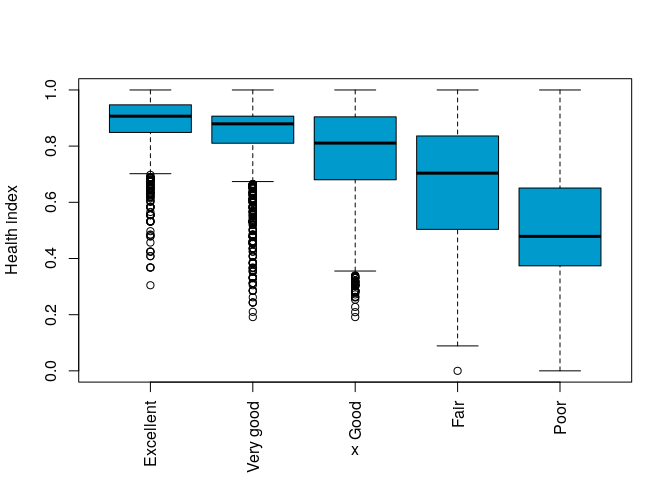
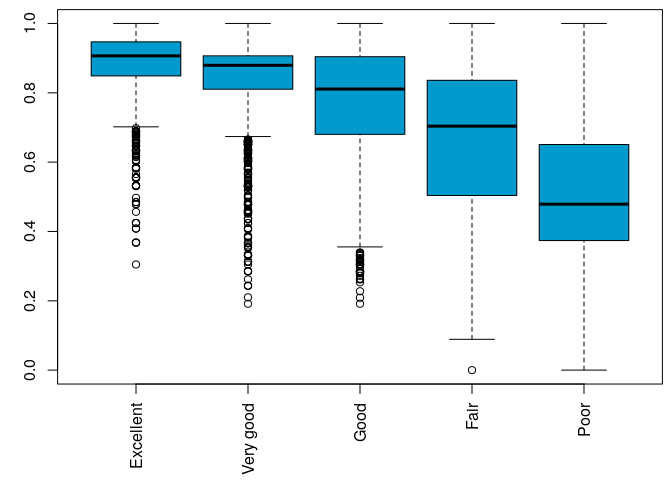
JOSS revision

diff --git a/README.md b/README.md
@@ -244,7 +244,7 @@ sc <- standardizeCoef(model1, plotf = TRUE, namesf = txtfun,
                       mar = c(10, 4, 1, 1))
 ```
 
-<img src="man/figures/README-unnamed-chunk-6-1.png" width="100%" />
+<img src="man/figures/README-fig1-1.png" width="65%" style="display: block; margin: auto;" />
 
 **Figure 1.** Disability weights.
 
@@ -274,24 +274,26 @@ index (or the latent index). It is simply calculated using the
 TRUE`).
 
 ``` r
-hi <- latentIndex(model1, plotf = TRUE, response = "data", 
-                  ylab = 'Health index', col='deepskyblue3')
+pmar <- par('mar'); par(mar = c(5.5, 4, 0.5, 0.5))
+hi <- latentIndex(model1, plotf = TRUE, response = "data", xlab='',
+                  ylab = 'Health index', col='deepskyblue3'); par(mar = pmar)
 ```
 
-<img src="man/figures/README-unnamed-chunk-8-1.png" width="100%" />
+<img src="man/figures/README-fig2-1.png" width="65%" style="display: block; margin: auto;" />
 
 **Figure 2.** Health index vs. self-reported health.
 
 The main aim of the reporting heterogeneity analyses is to determine the
 cut-points used to calculate the adjusted health status for each
 individual. The calculation and the plotting of cut-points are realized
-using the `getCutPoints` function.
+using the `getCutPoints`
+function.
 
 ``` r
 z <- getCutPoints(model = model1, decreasing.levels = TRUE)
 ```
 
-<img src="man/figures/README-unnamed-chunk-9-1.png" width="100%" />
+<img src="man/figures/README-fig3-1.png" width="65%" style="display: block; margin: auto;" />
 
 **Figure 3.** Health index cut-points for adjusted health levels.
 
@@ -322,7 +324,7 @@ hl <- getLevels(model = model1, formula = ~ sex + ageclass, data = healthsurvey,
                       sep = ' ', plotf = TRUE)
 ```
 
-<img src="man/figures/README-unnamed-chunk-13-1.png" width="100%" />
+<img src="man/figures/README-fig4-1.png" width="73%" style="display: block; margin: auto;" />
 
 **Figure 4.** Adjusted and original health levels.
 
@@ -366,7 +368,7 @@ calculate the mentioned difference:
 
 ``` r
 diff_BadHealth <- function(model, data) {
-  hl <- getLevels(model = model1, formula = ~ sex + ageclass, data = data, 
+  hl <- getLevels(model = model, formula = ~ sex + ageclass, data = data, 
                   sep = ' ', plotf = FALSE)
   hl$original[,1] + hl$original[,2] - hl$adjusted[,1]- hl$adjusted[,2]
 }
@@ -397,17 +399,17 @@ The code below plots the differences and the bootstrapped confidence
 intervals
 
 ``` r
-pmar <- par('mar'); par(mar = c(9.5, 6, pmar[3:4]))
+pmar <- par('mar'); par(mar = c(7, 5, 0.5, 0.5))
 m <- max(abs(est.CI))
 pos <- barplot(est.org, names.arg = names(est.org), las = 3, 
- ylab = 'Original - adjusted differences \nin the prevalences of bad health (%)', 
- ylim = c(-m, m), density = 20, angle = c(45, -45), col = c('blue', 'orange'))
+ylab = 'Original - adjusted differences \nin the prevalences of bad health (%)', 
+ylim = c(-m, m), density = 20, angle = c(45, -45), col = c('blue', 'orange'))
 for (k in seq_along(pos)) 
-  lines(c(pos[k,1],pos[k,1]), est.CI[,k], lwd = 2, col = 2)
+   lines(c(pos[k,1],pos[k,1]), est.CI[,k], lwd = 2, col = 2)
 abline(h = 0); box(); par(mar = pmar)
 ```
 
-<img src="man/figures/README-unnamed-chunk-19-1.png" width="100%" />
+<img src="man/figures/README-fig5-1.png" width="55%" style="display: block; margin: auto;" />
 
 **Figure 5.** Difference between the original and the adjusted
 prevalences of bad health. The confidence intervals were calculated
@@ -429,7 +431,9 @@ submitting an issue on GitHub.
 
 I thank Anna Oksuzyan, Vladimir M. Shkolnikov, Christian Dudel, Marius
 Pascariu, Laszlo Nemeth, and Oskar Burger for their comments and
-suggestions. I also thank the Max Planck Institute for Demographic
+suggestions; I thank @alexhanna, the editor of the JOSS journal, and two
+JOSS peer reviewers @soodoku and @mkearney for their suggestions and
+corrections. I also thank the Max Planck Institute for Demographic
 Research for all their support.
 
 The artificially generated data used in the package examples are based
@@ -455,7 +459,7 @@ Börsch-Supan, Axel, Martina Brandt, Christian Hunkler, Thorsten Kneip,
 Julie Korbmacher, Frederic Malter, Barbara Schaan, Stephanie Stuck, and
 Sabrina Zuber. 2013. “Data Resource Profile: The Survey of Health,
 Ageing and Retirement in Europe (Share).” International Journal of
-Epidemiology 42 (4): 992–1001. <https://doi.org/10.1093/ije/dyt088>.
+Epidemiology 42 (4): 992–1001. doi: 10.1093/ije/dyt088.
 
 Jurges H (2007). “True health vs response styles: exploring
 cross-country differences in self-reported health.” Health Economics,

diff --git a/paper/paper.md b/paper/paper.md
@@ -56,7 +56,7 @@ The results (Fig.3) show that men tend to over-report bad health at ages (50,60]
 
 # Acknowledgements
 
-I thank Anna Oksuzyan, Christian Dudel, Marius Pascariu, Laszlo Nemeth, and Oskar Burger for their comments and suggestions. I also thank the Max-Planck Institute for Demographic Research for all their support.
+I thank Anna Oksuzyan, Christian Dudel, Marius Pascariu, Laszlo Nemeth, and Oskar Burger for their comments and suggestions. I thank @alexhanna, the editor of the JOSS journal, and two JOSS peer reviewers @soodoku and @mkearney for their suggestions and corrections. I also thank the Max-Planck Institute for Demographic Research for all their support.
 
 In all examples presented above I use ```healthsurvey```, which is a completely artificial data set that is simulated using the distributions of some major health and socio-demographic characteristics. The distributions and the data structure is roughly based on the WAVE1 SHARE database (DOIs: 10.6103/SHARE.w1.600) see @Borsch2013 for technical details about SHARE database. None of the records represent any part of the true data. 
 
